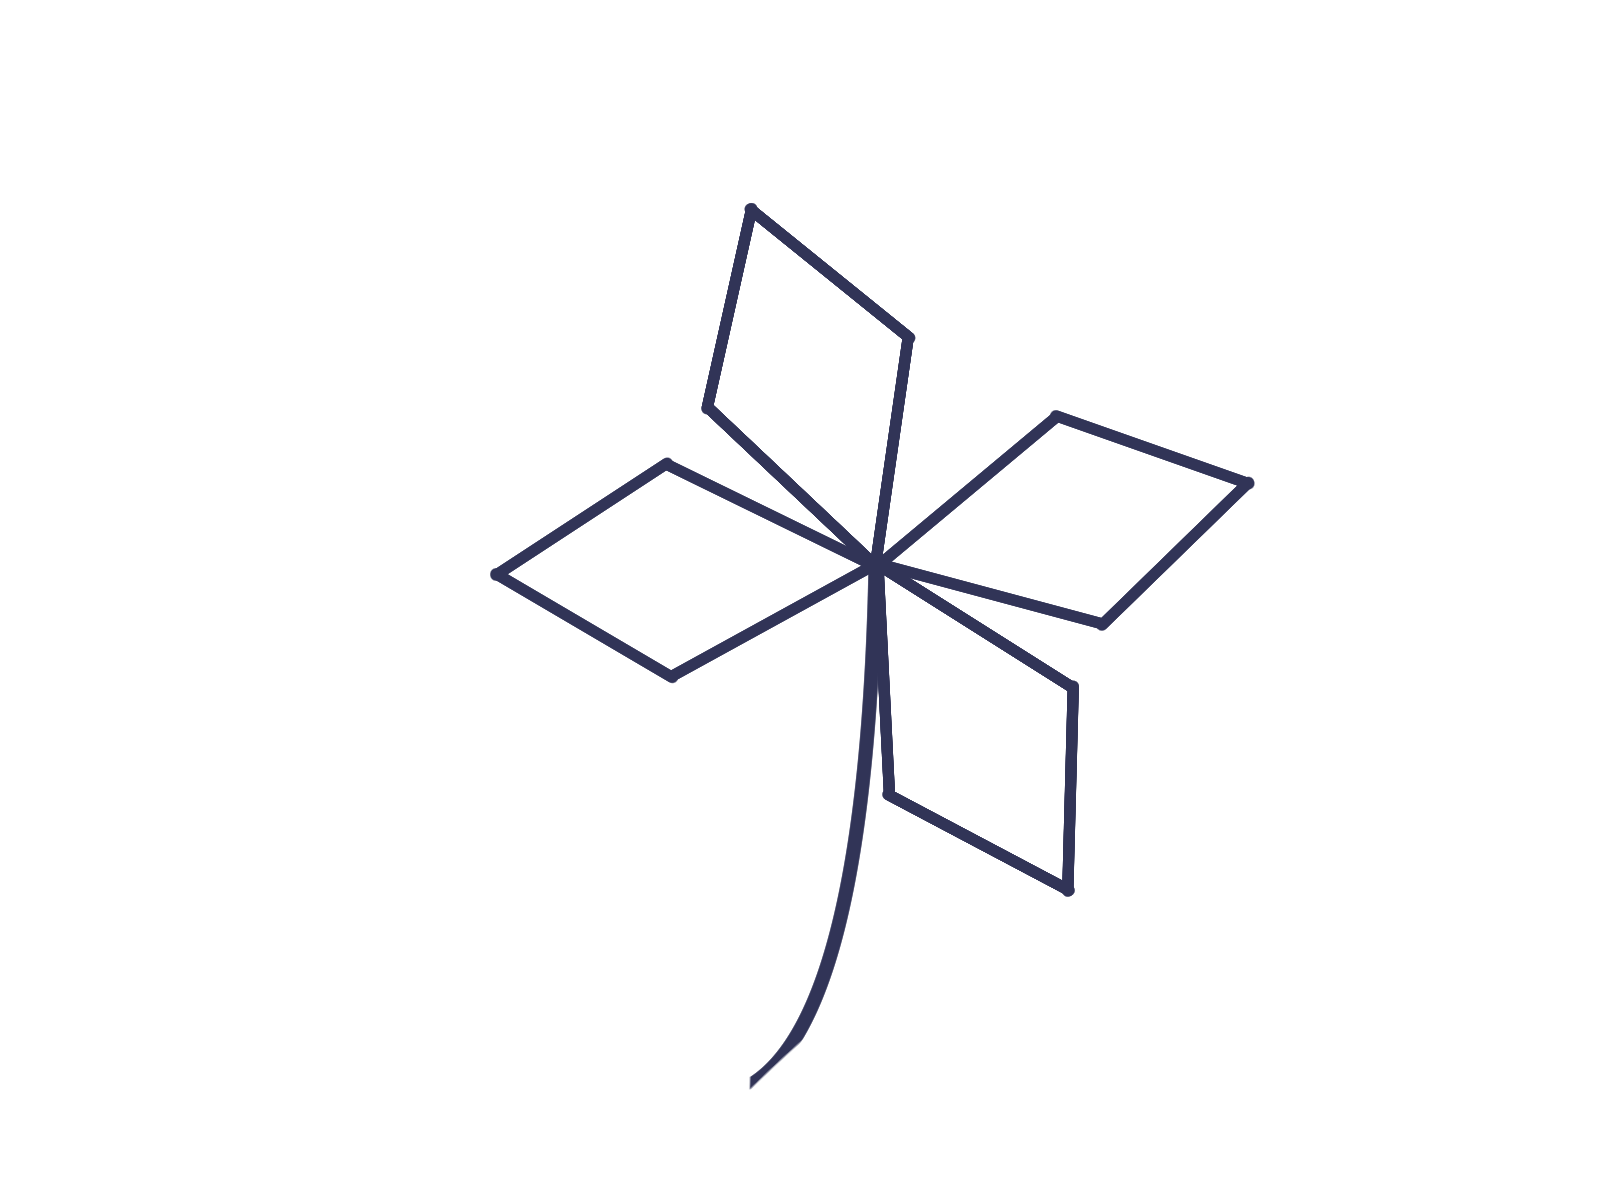
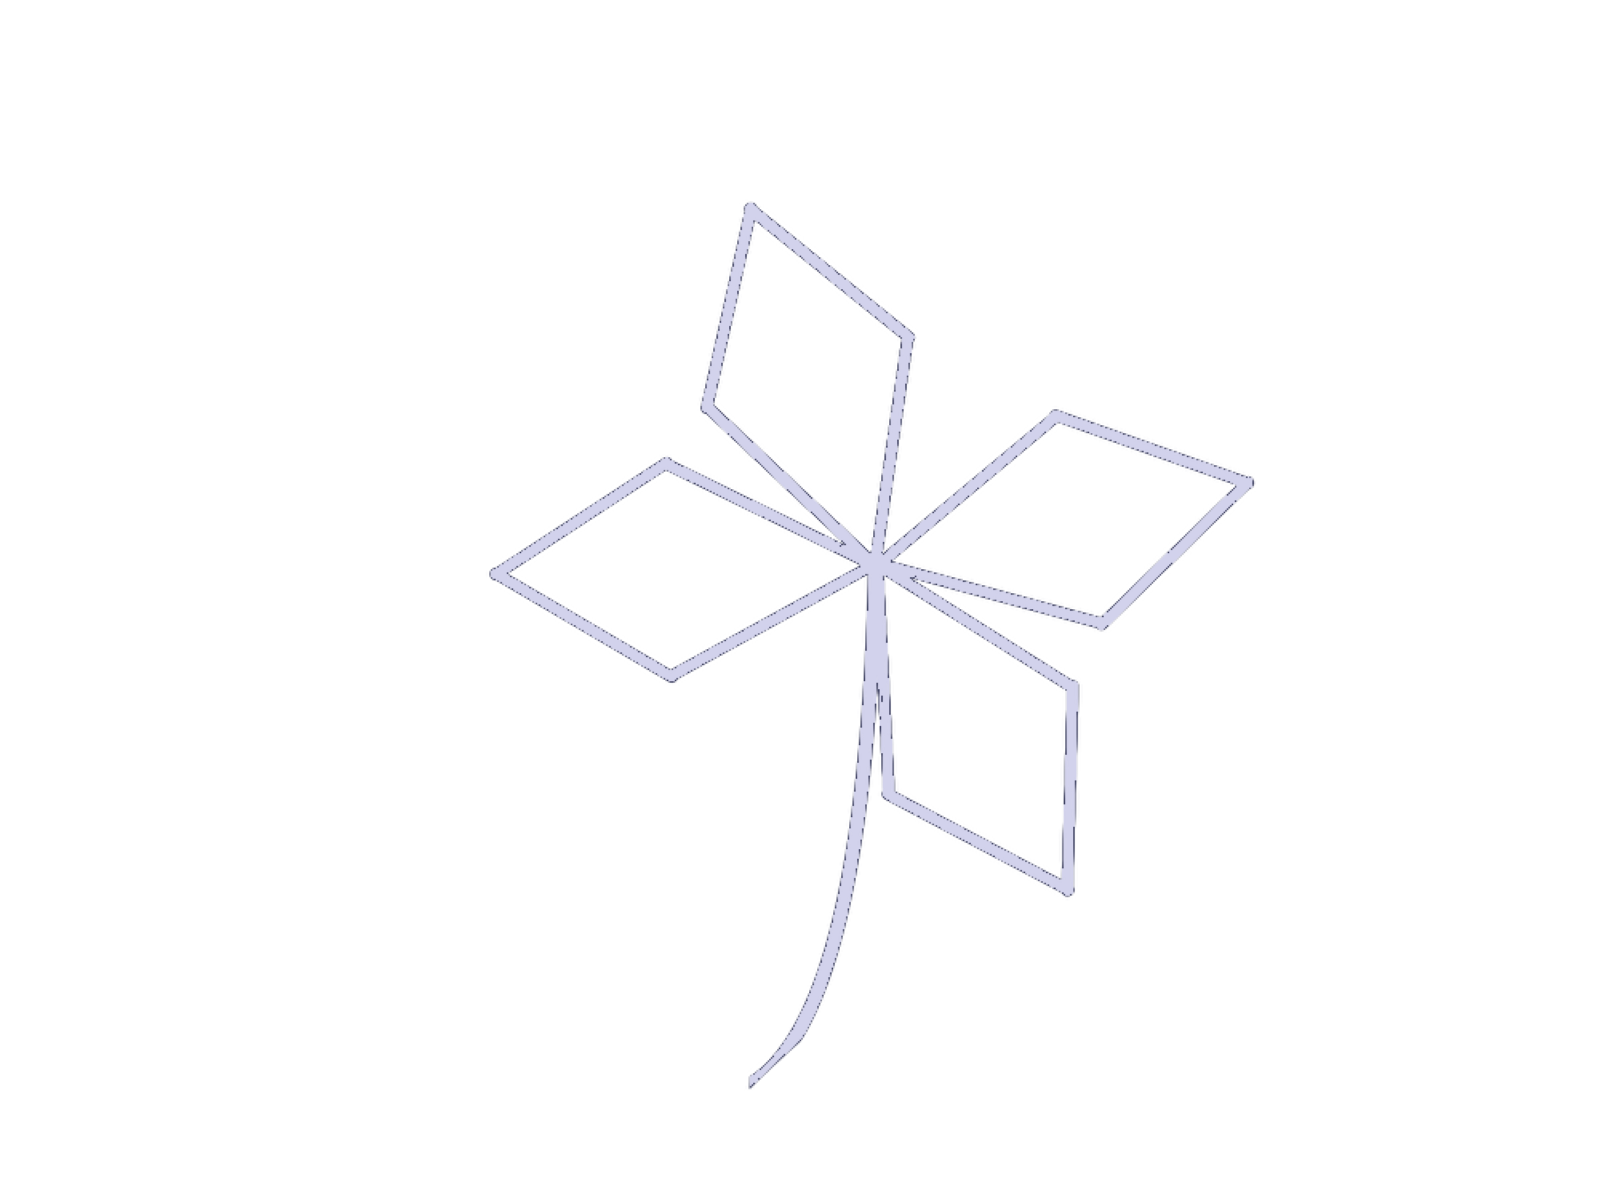
update: UI

diff --git a/src/components/TitlebarImageList.jsx b/src/components/TitlebarImageList.jsx
@@ -13,7 +13,7 @@ export default function TitlebarImageList() {
 
   return (
     <>
-      <ImageList sx={{ width: 700, height: 700, overflow: 'hidden' }}>
+  <ImageList sx={{ width: 700, height: 'auto', overflow: 'visible' }}>
         <ImageListItem key="Subheader" cols={2}>
           <ListSubheader
             component="div"
@@ -34,6 +34,10 @@ export default function TitlebarImageList() {
               style={{
                 border: '4px solid white',
                 borderRadius: '4px',
+                width: '100%',
+                height: 200,
+                objectFit: 'cover',
+                display: 'block',
               }}
             />
             <ImageListItemBar
@@ -93,5 +97,12 @@ const itemData = [
     place: 'RoboCup@Home',
     category: "Robot",
     explain:"収納・配膳を行うロボットのソフトウェアを開発"
+  },
+  {
+    img: import.meta.env.BASE_URL + 'cooklist.png',
+    title: 'CookList',
+    place: 'InternShip',
+    category: "Web Application",
+    explain:"レシピ検索・お買い物リストアプリ"
   },
 ];

diff --git a/src/components/Home/Home.jsx b/src/components/Home/Home.jsx
@@ -5,8 +5,8 @@ import ThankYou from '../Thankyou/Thankyou'
 
 export const Home = () => {
   return (
-     <>
-      <div id = 'top'></div>
+    <>
+    <div id = "top" style={{ backgroundColor: 'transparent' }}></div>
       <div className='log'>
         {/* <h1 className="fade-in-welcome">Thank you for coming!</h1> */}
         <ThankYou />

diff --git a/src/components/Thankyou/Thankyou.css b/src/components/Thankyou/Thankyou.css
@@ -8,7 +8,7 @@
 .thank-text {
   font-size: 4rem;
   font-weight: bold;
-  color: #2c2c5c;
+  color: #d2d2ec;
 }
 
 .thank-line {
@@ -22,7 +22,7 @@
 
 .line-path {
   fill: none;
-  stroke: #2c2c5c;
+  stroke: #d2d2ec;
   stroke-width: 2.5;
   stroke-dasharray: 3000;
   stroke-dashoffset: 3000;
